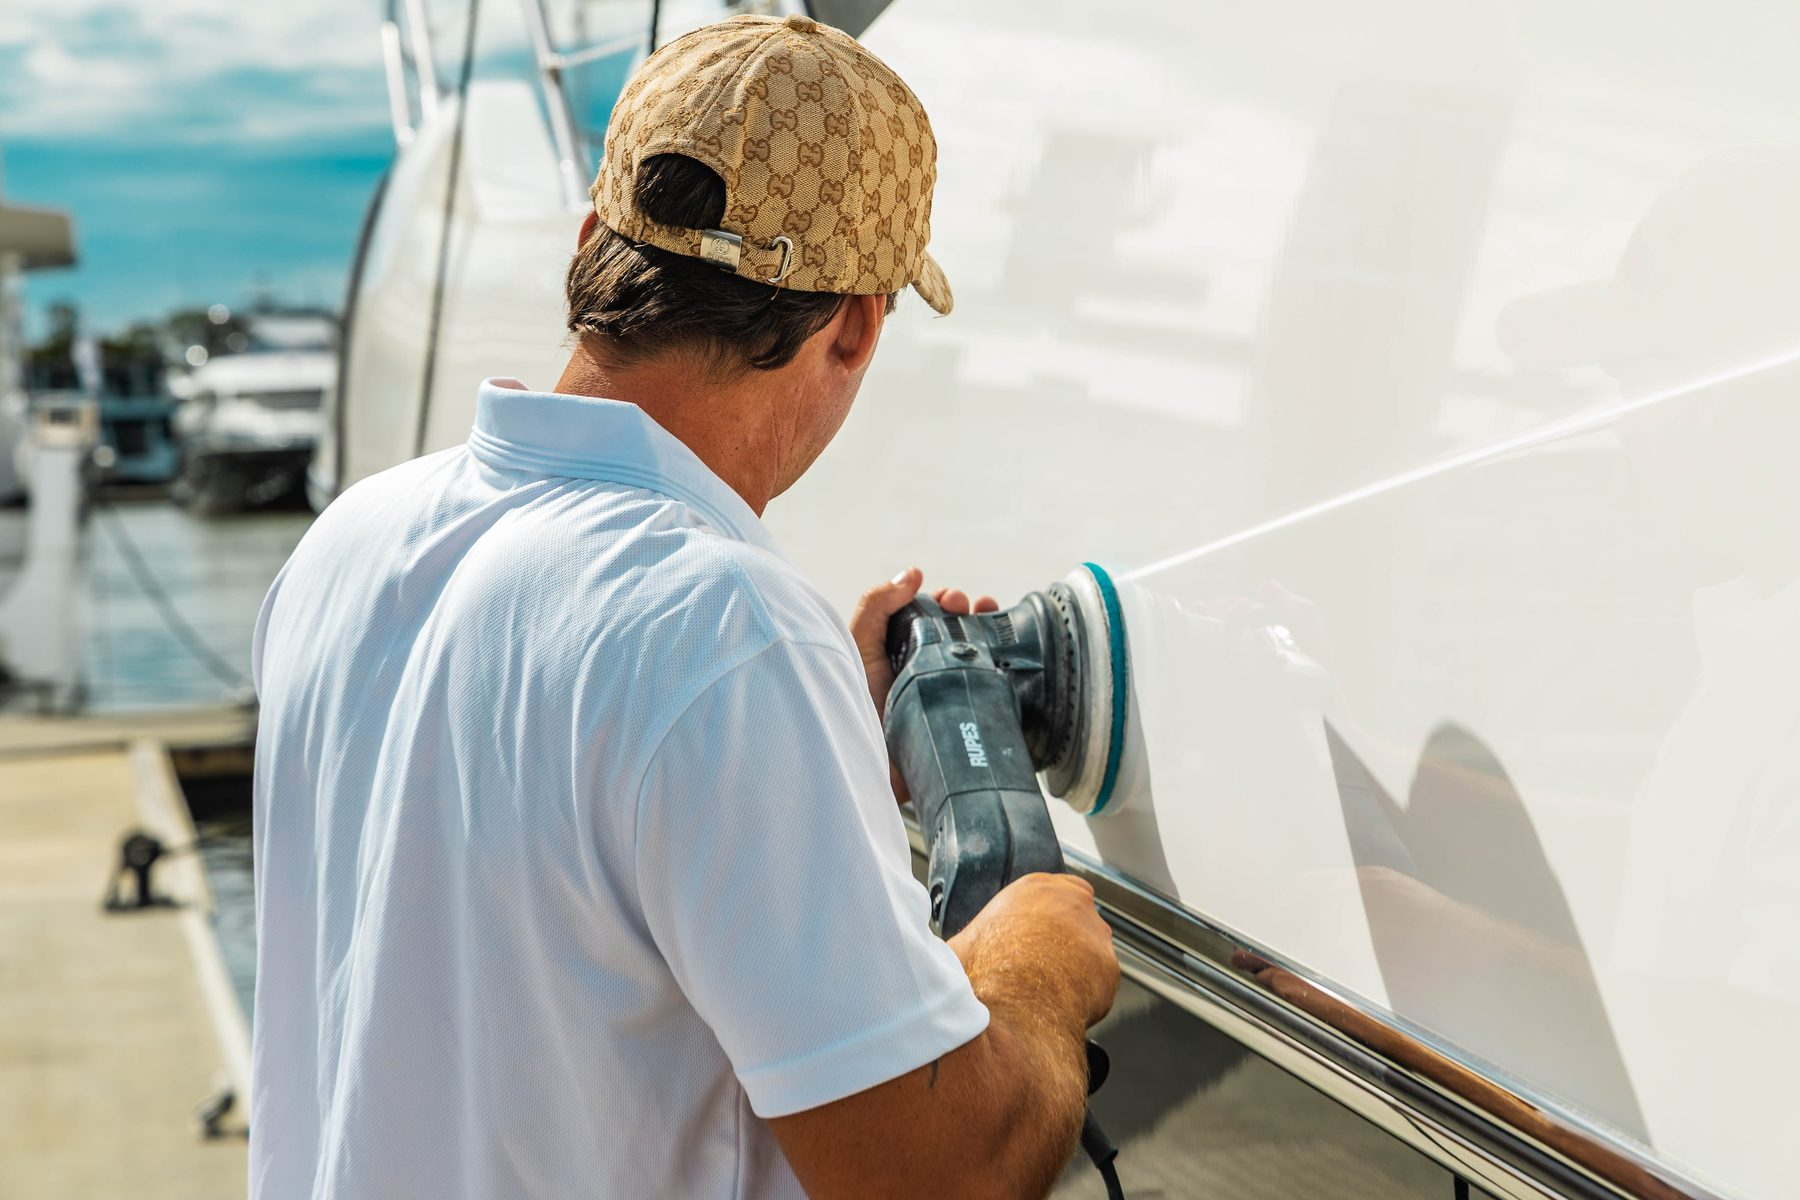
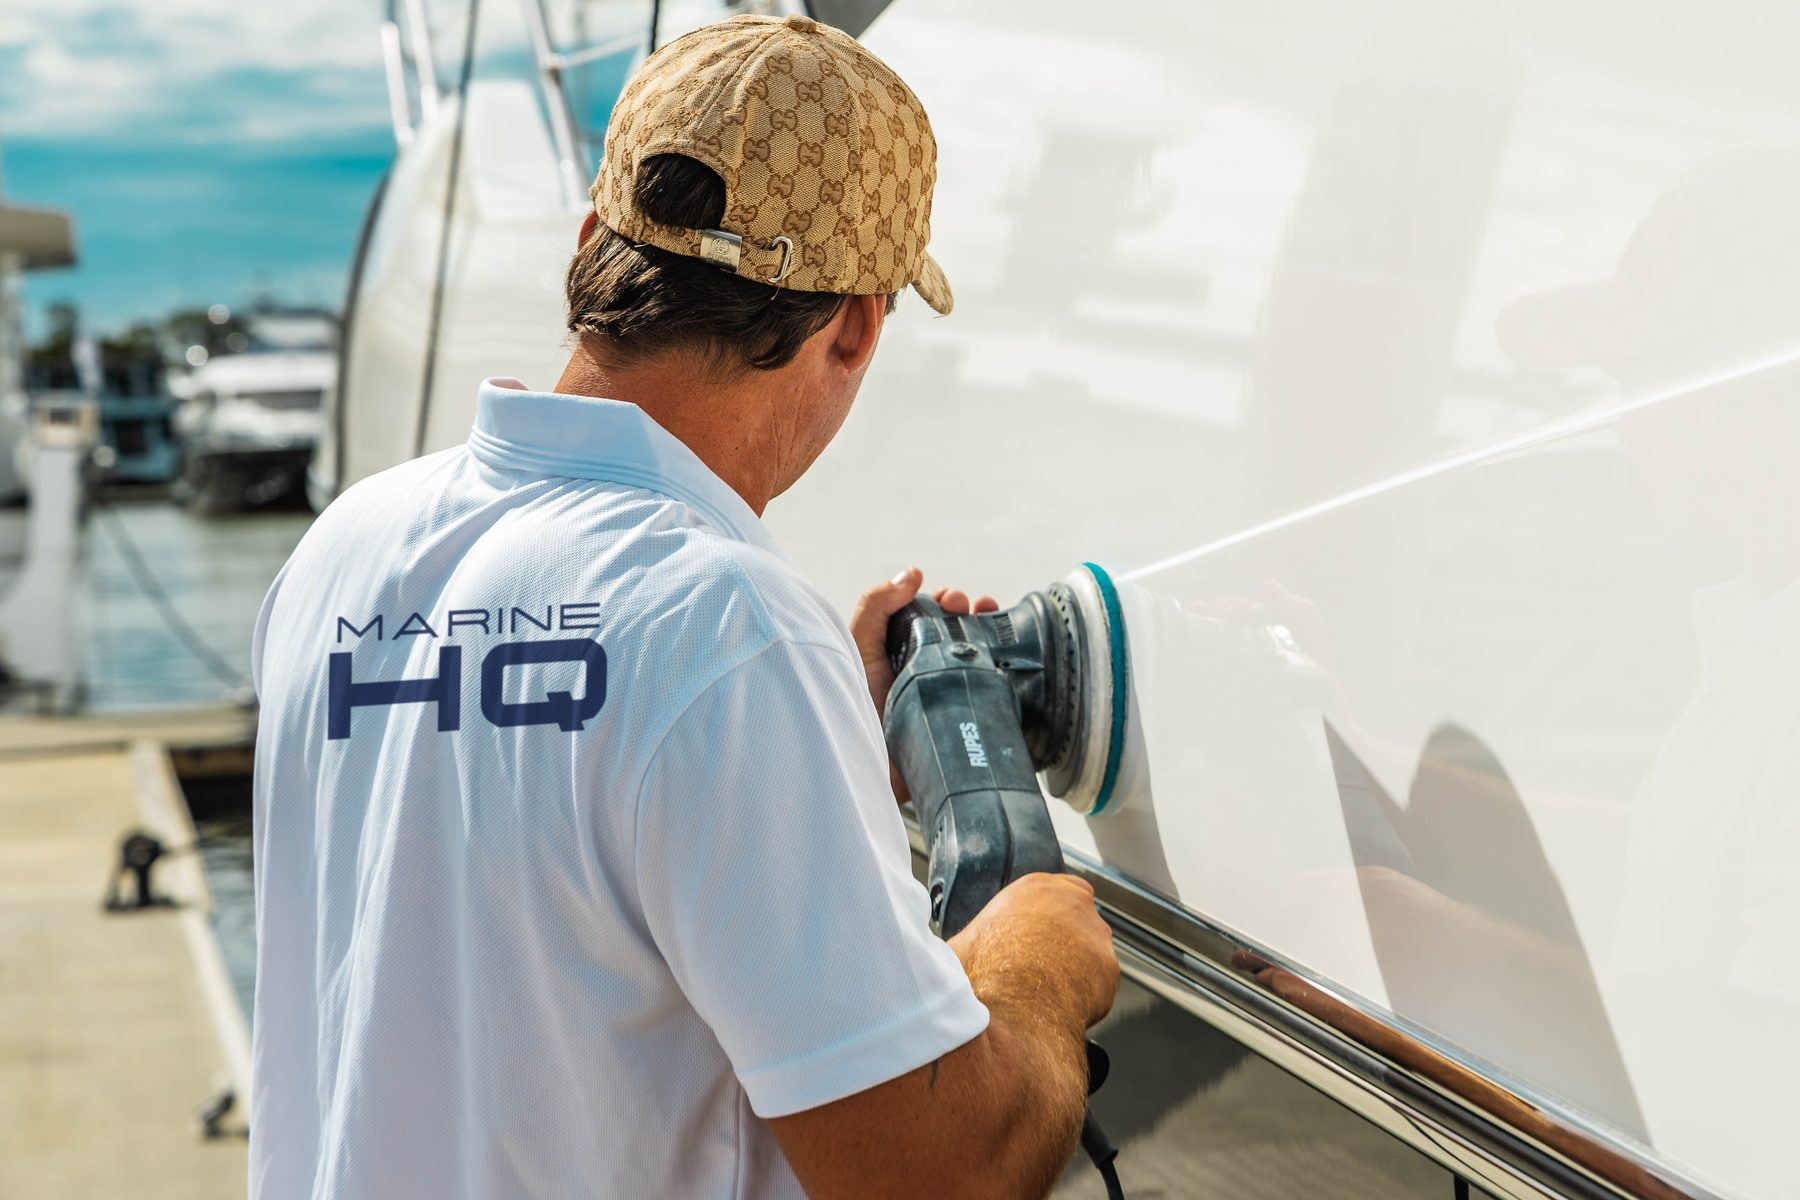
Add the Marine HQ back print to the white polo in the two hull-polishing photos

Changed region(s): [[0.1556, 0.4933, 0.3422, 0.6167]]

diff --git a/docs/process_shoot_photos.py b/docs/process_shoot_photos.py
@@ -67,12 +67,46 @@ def fill_from_edges(a, box, iters=1500):
     p[inner] += rng.normal(0, 1.2, p.shape)[inner]
     a[y0:y1, x0:x1] = np.clip(p, 0, 255).astype(np.uint8)
 
+# Marine HQ back print added to a plain shirt back (Trish, 5 Oct 2026: "put a blue Marine HQ logo on the back of
+# this shirt ... like the others"). The shirt already carries the Marine HQ chest logo; the real back print on the
+# navy polos is the MARINE / HQ wordmark without the boat mark, so that is what goes on.
+# frame -> quad on the shirt in full-res px: top-left, top-right, bottom-right, bottom-left
+BACK_PRINT = {
+    40: [(1100, 2045), (2030, 1995), (2020, 2430), (1090, 2500)],   # antifouling cover
+    38: [(480, 2450), (1600, 2390), (1590, 2900), (470, 2980)],      # same shirt, in the detailing guide
+}
+LOGO = os.path.join(HERE, "..", "site", "assets", "logo_navy.png")
+NAVY = (27, 42, 82)
+
+def _persp(dst, src):
+    """coefficients mapping output (dst quad) back to input (src rect) for Image.transform"""
+    A, B = [], []
+    for (x, y), (u, v) in zip(dst, src):
+        A.append([x, y, 1, 0, 0, 0, -u * x, -u * y]); B.append(u)
+        A.append([0, 0, 0, x, y, 1, -v * x, -v * y]); B.append(v)
+    return np.linalg.solve(np.array(A, float), np.array(B, float)).tolist()
+
+def back_print(a, quad, strength=0.9):
+    from PIL import ImageFilter
+    logo = Image.open(LOGO).convert("RGBA")
+    logo = logo.crop((0, 142, logo.width, logo.height))                    # wordmark only, no boat mark
+    alpha = logo.split()[3].resize((logo.width * 4, logo.height * 4), Image.LANCZOS)
+    alpha = alpha.point(lambda v: 0 if v < 96 else (255 if v > 160 else int((v - 96) * 255 / 64)))   # re-crisp after upscaling
+    h, w = a.shape[:2]
+    src = [(0, 0), (alpha.width, 0), (alpha.width, alpha.height), (0, alpha.height)]
+    mask = alpha.transform((w, h), Image.PERSPECTIVE, _persp(quad, src), Image.BICUBIC).filter(ImageFilter.GaussianBlur(2.2))
+    m = (np.asarray(mask, np.float64) / 255.0 * strength)[..., None]
+    base = a.astype(np.float64)
+    ink = base * (np.array(NAVY, np.float64) / 255.0) * 1.12 + 6           # multiply: folds and weave show through the print
+    a[:] = np.clip(base * (1 - m) + ink * m, 0, 255).astype(np.uint8)
+
 def main():
     zoom = "--zoom" in sys.argv
     for n, (name, boxes) in SHOTS.items():
         im = ImageOps.exif_transpose(Image.open(FILES[n])).convert("RGB")
         a = np.array(im)
         for b in boxes: fill_from_edges(a, b)
+        if n in BACK_PRINT: back_print(a, BACK_PRINT[n])
         im = Image.fromarray(a)
         if n in CROP and not zoom: im = im.crop(CROP[n])
         if zoom:
